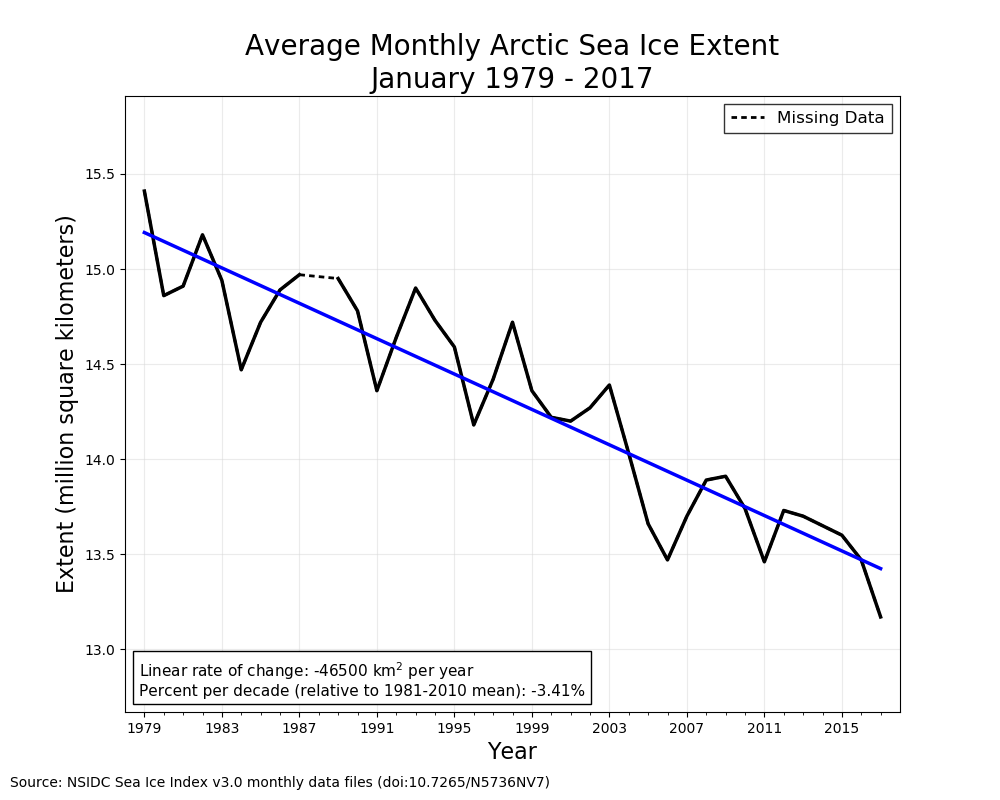
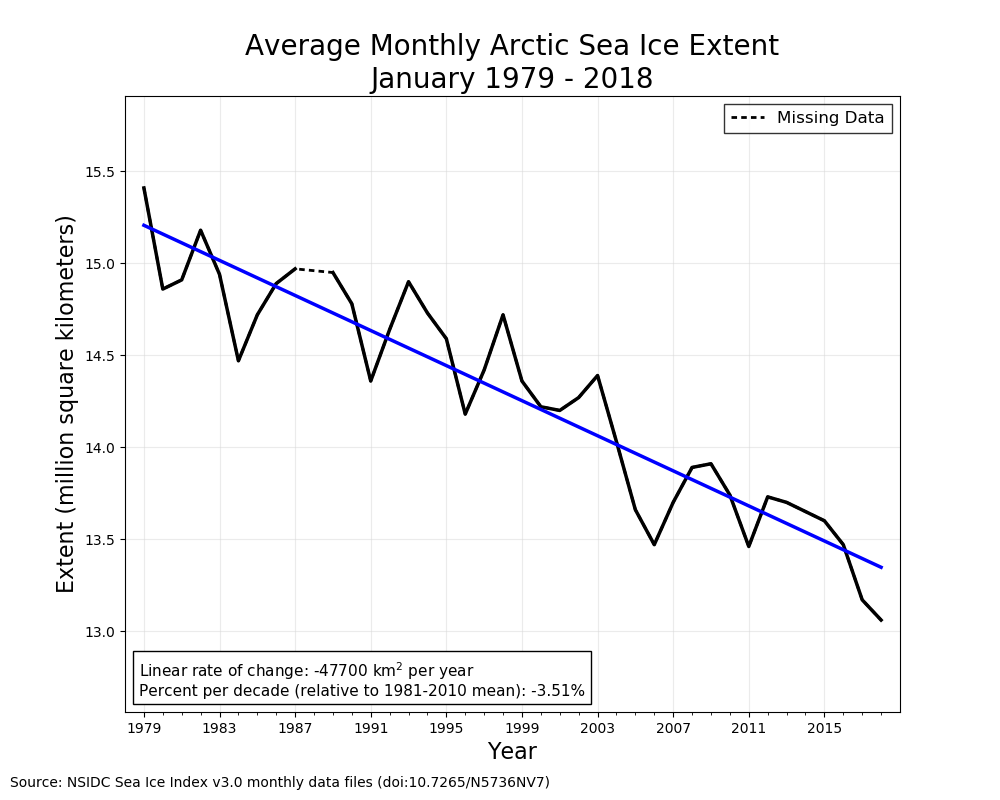
Update MonthlyIceIndexPlotter, README - change 1-month age check to 15-days for source monthly datafiles - add message about smoothed daily plots to README - update plots for Jan 2018

diff --git a/nsidc-tools/MonthlyIceIndexPlotter.py b/nsidc-tools/MonthlyIceIndexPlotter.py
@@ -35,6 +35,7 @@ def parse_cfg(cfgfile):
 
 
 def download_monthly_data(download_dir, hemisphere='N'):
+    if not os.path.isdir(download_dir): os.makedirs(download_dir)
     today = datetime.today()
     if hemisphere.upper() in ['SOUTH', 'S']:
         csv_url = 'ftp://sidads.colorado.edu/DATASETS/NOAA/G02135/south/monthly/data/'
@@ -58,9 +59,9 @@ def download_monthly_data(download_dir, hemisphere='N'):
         if not os.path.isfile(dst_file):
             you_gotta_download = True
         else:
-            # Re-download the file if it is >1 month older relative to current day at start of script execution
+            # Re-download the file if it is >15 days older relative to current day at start of script execution
             modtime = datetime.fromtimestamp(os.path.getmtime(dst_file))
-            if modtime <= today - relativedelta(months=1):
+            if modtime <= today - relativedelta(days=15):
                 you_gotta_download = True
         if you_gotta_download: # then go get it!
             print "Retrieving {}-hemisphere monthly data ({}) from NSIDC FTP...".format(hemisphere, curr_month.strftime("%b"))

diff --git a/README.md b/README.md
@@ -19,7 +19,7 @@ Tschudi, M., C. Fowler, J. Maslanik, J. S. Stewart, and W. Meier. 2016. EASE-Gri
 *Usage:* `python nsidc-tools/DailyIceIndexPlotter.py config.cfg`
 - Downloads the latest Daily Sea Ice Index datasets from NSIDC FTP to local storage. (~5MB)
 - Initializes pandas dataframes for North hemisphere, South hemisphere, and Global areas of interest.
-- Generates overlapping line plots to show daily progression of sea ice extent:
+- Generates overlapping line plots to show daily progression of sea ice extent (smoothed with 5-day window mean):
 
 ![Daily Arctic Sea Ice Index](./plots/NSIDC_DailyIceIndex_N-Hemisphere.png)
 
